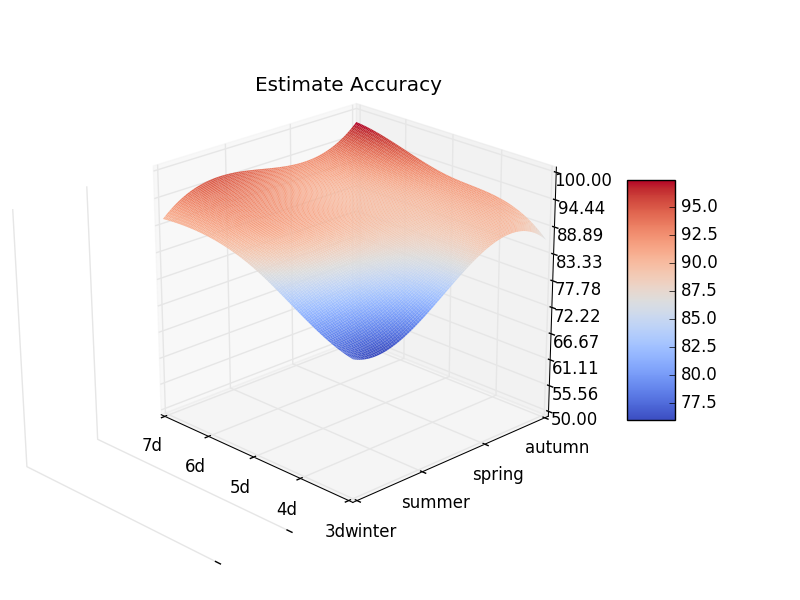
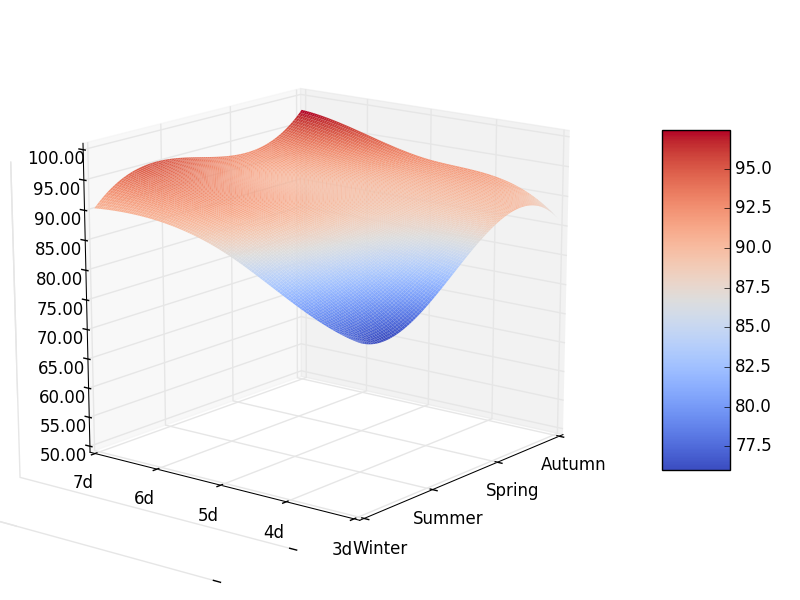
Alteracoes Glauci

diff --git a/graficos.py b/graficos.py
@@ -13,7 +13,7 @@ from scipy.interpolate import spline
 import matplotlib.pyplot as plt
 import numpy as np
 from coleta_dados_bdclima import campo_mourao, jaguaruana
-
+from change_z_position import MyAxes3D
 from time import sleep
 
 x_tk = ["3d", "4d", "5d", "6d", "7d"]
@@ -23,7 +23,7 @@ x_n, y_n = np.mgrid[1:5:125j, 1:4:100j]
 x_prev, y_prev = np.meshgrid(x, y)
 
 # -------------------------------- Estimativa ---------------------------------------------------#
-y_tk = ["autumn", "spring", "summer", "winter"]
+y_tk = ["Autumn", "Spring", "Summer", "Winter"]
 
 z = np.array([[86.2639777541, 91.7085907336, 92.6752320789,	95.3093500985, 97.608992404],
              [88.7806137049, 88.8802508711, 89.9631424714, 90.4234966701, 92.7750794607],
@@ -49,21 +49,22 @@ ax.zaxis.set_major_formatter(FormatStrFormatter('%.02f'))
 
 ax.set_xticks([i for i in range(1, 6)])
 ax.set_yticks([i for i in range(1, 7)])
+ax.set_zticks([i for i in range(50, 105, 5)])
 ax.set_xticklabels(x_tk)
 ax.set_yticklabels(y_tk)
 
+fig.colorbar(surf, shrink=0.6, aspect=5)
 
-fig.colorbar(surf, shrink=0.5, aspect=5)
+ax = fig.add_axes(MyAxes3D(ax, 'l'))
 
-ax.set_title("Estimate Accuracy")
-
+plt.tight_layout(pad=1.01)
 
 plt.show()
 
 # -------------------------------- Fim Estimativa ---------------------------------------------------#
 # -------------------------------- Previsao ---------------------------------------------------#
 
-y_tk = ["winter", "summer", "spring", "autumn"]
+y_tk = ["Winter", "Summer", "Spring", "Autumn"]
 
 
 z = np.array([[87.1393915552, 78.027100271, 77.3696257233, 76.6421890025, 73.6246612466],
@@ -72,7 +73,6 @@ z = np.array([[87.1393915552, 78.027100271, 77.3696257233, 76.6421890025, 73.624
               [63.7171081388, 56.3130518402, 53.193898068, 53.1401346271, 56.5023712737]])
 
 fig = plt.figure()
-plt.title("Forecasting")
 ax = fig.gca(projection='3d')
 
 tck = interpolate.bisplrep(x_prev, y_prev, z, s=0)
@@ -89,12 +89,15 @@ ax.zaxis.set_major_formatter(FormatStrFormatter('%.02f'))
 
 ax.set_xticks([i for i in range(1, 6)])
 ax.set_yticks([i for i in range(1, 7)])
+ax.set_zticks([i for i in range(50, 105, 5)])
 ax.set_xticklabels(x_tk)
 ax.set_yticklabels(y_tk)
 
-fig.colorbar(surf, shrink=0.5, aspect=5)
+fig.colorbar(surf, shrink=0.6, aspect=5)
 
-ax.set_title("Forecasting Accuracy")
+ax = fig.add_axes(MyAxes3D(ax, 'l'))
+
+plt.tight_layout(pad=1.01)
 
 plt.show()
 # -------------------------------- Fim Previsão ---------------------------------------------------#
@@ -155,15 +158,17 @@ dist_mar_smooth = np.linspace(distancia_mar.min(), distancia_mar.max(), 300)
 
 plt.subplot(221)
 
-plt.title("Continentality Effect")
-
 #suavisando no eixo y
 smooth_primavera = spline(distancia_mar, p_primavera(distancia_mar), dist_mar_smooth)
 # fim
 plt.plot(distancia_mar, media_primavera, 'ks', dist_mar_smooth, smooth_primavera, 'r-', lw=1)
 plt.axis([0, 1600, 45, 100])
-plt.setp(plt.gca(), yticks=(50, 75, 100), xticks=(0, 183, 363, 500, 670, 830, 1500))
-plt.text(50, 90, 'Spring', fontsize=15)
+plt.setp(plt.gca(), yticks=range(50, 105, 5), xticks=(0, 300, 600, 900, 1200, 1500))
+plt.text(50, 90, 'A - Spring', fontsize=15)
+plt.ylabel('%')
+plt.xlabel('km')
+plt.text(300, 80, r'$f(x) = 2.54e^{-5} x^2 - 0.0416x + 72.63$', fontsize=10)
+plt.text(300, 75, r'$R^2 = 0.24$', fontsize=10)
 
 plt.subplot(222)
 #suavisando no eixo y
@@ -171,8 +176,12 @@ smooth_verao = spline(distancia_mar, p_verao(distancia_mar), dist_mar_smooth)
 # fim
 plt.plot(distancia_mar, media_verao, 'ks', dist_mar_smooth, smooth_verao, 'r-', lw=1)
 plt.axis([0, 1600, 45, 100])
-plt.setp(plt.gca(), yticks=(50, 75, 100), xticks=(0, 183, 363, 500, 670, 830, 1500))
-plt.text(50, 90, 'Summer', fontsize=15)
+plt.setp(plt.gca(), yticks=range(50, 105, 5), xticks=(0, 300, 600, 900, 1200, 1500))
+plt.text(50, 90, 'B - Summer', fontsize=15)
+plt.ylabel('%')
+plt.xlabel('km')
+plt.text(300, 55, r'$f(x) = -1.40e^{-5} x^2 + 0.0386x + 58.46$', fontsize=10)
+plt.text(300, 50, r'$R^2 = 0.73$', fontsize=10)
 
 plt.subplot(223)
 #suavisando no eixo y
@@ -180,8 +189,12 @@ smooth_outono = spline(distancia_mar, p_outono(distancia_mar), dist_mar_smooth)
 # fim
 plt.plot(distancia_mar, media_outono, 'ks', dist_mar_smooth, smooth_outono, 'r-', lw=1)
 plt.axis([0, 1600, 45, 100])
-plt.setp(plt.gca(), yticks=(50, 75, 100), xticks=(0, 183, 363, 500, 670, 830, 1500))
-plt.text(50, 90, 'Autumn', fontsize=15)
+plt.setp(plt.gca(), yticks=range(50, 105, 5), xticks=(0, 300, 600, 900, 1200, 1500))
+plt.text(50, 90, 'C - Autumn', fontsize=15)
+plt.ylabel('%')
+plt.xlabel('km')
+plt.text(300, 80, r'$f(x) = 6.00e^{-6} x^2 - 0.0152x + 61.62$', fontsize=10)
+plt.text(300, 75, r'$R^2 = 0.30$', fontsize=10)
 
 plt.subplot(224)
 #suavisando no eixo y
@@ -189,11 +202,14 @@ smooth_inverno = spline(distancia_mar, p_inverno(distancia_mar), dist_mar_smooth
 # fim
 plt.plot(distancia_mar, media_inverno, 'ks', dist_mar_smooth, smooth_inverno, 'r-', lw=1)
 plt.axis([0, 1600, 45, 100])
-plt.setp(plt.gca(), yticks=(50, 75, 100), xticks=(0, 183, 363, 500, 670, 830, 1500))
-plt.text(50, 90, 'Winter', fontsize=15)
+plt.setp(plt.gca(), yticks=range(50, 105, 5), xticks=(0, 300, 600, 900, 1200, 1500))
+plt.text(50, 90, 'S - Winter', fontsize=15)
+plt.ylabel('%')
+plt.xlabel('km')
+plt.text(300, 55, r'$f(x) = -3.70e^{-6} x^2 - 0.0032x + 81.71$', fontsize=10)
+plt.text(300, 50, r'$R^2 = 0.16$', fontsize=10)
 
-
-
+plt.tight_layout()
 plt.show()
 # -------------------------------- Fim macroclimática ---------------------------------------------#
 
@@ -252,15 +268,17 @@ altitude_mar_smooth = np.linspace(altitude.min(), altitude.max(), 300)
 
 plt.subplot(221)
 
-plt.title("Topographic Effect")
-
 #suavisando no eixo y
 smooth_primavera = spline(altitude, p_primavera(altitude), altitude_mar_smooth)
 # fim
 plt.plot(altitude, media_primavera, 'ks', altitude_mar_smooth, smooth_primavera, 'r-', lw=1)
 plt.axis([0, 800, 45, 100])
-plt.setp(plt.gca(), yticks=(50, 75, 100), xticks=(0, 100, 200, 300, 400, 500, 600, 700, 800))
-plt.text(50, 90, 'Spring', fontsize=15)
+plt.setp(plt.gca(), yticks=range(50, 105, 5), xticks=(0, 200, 400, 600, 800))
+plt.text(50, 90, 'A - Spring', fontsize=15)
+plt.ylabel('%')
+plt.xlabel('m')
+plt.text(150, 80, r'$f(x) = 8.17e^{-5} x^2 - 0.0883x + 80.59$', fontsize=10)
+plt.text(150, 75, r'$R^2 = 0.40$', fontsize=10)
 
 plt.subplot(222)
 #suavisando no eixo y
@@ -268,8 +286,12 @@ smooth_verao = spline(altitude, p_verao(altitude), altitude_mar_smooth)
 # fim
 plt.plot(altitude, media_verao, 'ks', altitude_mar_smooth, smooth_verao, 'r-', lw=1)
 plt.axis([0, 800, 45, 100])
-plt.setp(plt.gca(), yticks=(50, 75, 100), xticks=(0, 100, 200, 300, 400, 500, 600, 700, 800))
-plt.text(50, 90, 'Summer', fontsize=15)
+plt.setp(plt.gca(), yticks=range(50, 105, 5), xticks=(0, 200, 400, 600, 800))
+plt.text(50, 90, 'B - Summer', fontsize=15)
+plt.ylabel('%')
+plt.xlabel('m')
+plt.text(150, 55, r'$f(x) = -3.37e^{-5} x^2 + 0.0528x + 57.09$', fontsize=10)
+plt.text(150, 50, r'$R^2 = 0.52$', fontsize=10)
 
 plt.subplot(223)
 #suavisando no eixo y
@@ -277,8 +299,12 @@ smooth_outono = spline(altitude, p_outono(altitude), altitude_mar_smooth)
 # fim
 plt.plot(altitude, media_outono, 'ks', altitude_mar_smooth, smooth_outono, 'r-', lw=1)
 plt.axis([0, 800, 45, 100])
-plt.setp(plt.gca(), yticks=(50, 75, 100), xticks=(0, 100, 200, 300, 400, 500, 600, 700, 800))
-plt.text(50, 90, 'Autumn', fontsize=15)
+plt.setp(plt.gca(), yticks=range(50, 105, 5), xticks=(0, 200, 400, 600, 800))
+plt.text(50, 90, 'C - Autumn', fontsize=15)
+plt.ylabel('%')
+plt.xlabel('m')
+plt.text(150, 80, r'$f(x) = 3.10e^{-5} x^2 - 0.0351x + 64.12$', fontsize=10)
+plt.text(150, 75, r'$R^2 = 0.34$', fontsize=10)
 
 plt.subplot(224)
 #suavisando no eixo y
@@ -286,8 +312,13 @@ smooth_inverno = spline(altitude, p_inverno(altitude), altitude_mar_smooth)
 # fim
 plt.plot(altitude, media_inverno, 'ks', altitude_mar_smooth, smooth_inverno, 'r-', lw=1)
 plt.axis([0, 800, 45, 100])
-plt.setp(plt.gca(), yticks=(50, 75, 100), xticks=(0, 100, 200, 300, 400, 500, 600, 700, 800))
-plt.text(50, 90, 'Winter', fontsize=15)
+plt.setp(plt.gca(), yticks=range(50, 105, 5), xticks=(0, 100, 200, 300, 400, 500, 600, 700, 800))
+plt.text(50, 90, 'D - Winter', fontsize=15)
+plt.ylabel('%')
+plt.xlabel('m')
+plt.tight_layout()
+plt.text(150, 55, r'$f(x) = 8.77e^{-5} x^2 - 0.0732x + 88.32$', fontsize=10)
+plt.text(150, 50, r'$R^2 = 0.30$', fontsize=10)
 
 plt.show()
 
@@ -296,9 +327,14 @@ plt.show()
 # Legends
 red_line = mlines.Line2D([], [], color='red', marker='o',
                          linewidth=2, label='Temperature')
-red_patch = mpatches.Patch(color='red', label='Deficit')
-blue_patch = mpatches.Patch(color='blue', label='Excess')
-green_patch = mpatches.Patch(color='green', label='Precipitation')
+red_patch = mpatches.Patch(facecolor='red', label='Deficit')
+blue_patch = mpatches.Patch(facecolor='blue', label='Excess')
+green_patch = mpatches.Patch(hatch='///', facecolor='green', label='Precipitation',)
+
+
+x_months = ['Jan', 'Feb', 'Mar', 'Apr',
+            'May', 'Jun', 'Jul', 'Aug',
+            'Sep', 'Oct', 'Nov', 'Dec']
 
 # Campo mourao
 campo_mourao['def'] = [-i if i != 0 else 0 for i in campo_mourao['def']]
@@ -307,7 +343,7 @@ fig = plt.figure()
 
 ax = fig.gca()
 
-ax.bar(range(1, 13), campo_mourao['precipitation'], align='center', color='green')
+ax.bar(range(1, 13), campo_mourao['precipitation'], align='center', color='green', hatch='///')
 
 ax.plot(range(1, 13), campo_mourao['exc'], range(1, 13), campo_mourao['def'], color='black', label='water balance')
 ax.fill_between(range(1, 13), 0, campo_mourao['exc'], facecolor='blue', zorder=5)
@@ -319,18 +355,15 @@ ax2.plot(range(1, 13), campo_mourao['temperature'],
          label="Temperature", color='red')
 ax2.set_ylim(0, 35)
 
-ax.set_xlabel('Month')
 ax.set_ylabel('mm')
 ax.set_xlim(1, 12)
 ax.set_ylim(0, 275)
 
 ax2.set_ylim(0, 40)
-ax2.set_ylabel(u'Celsius Degrees')
+ax2.set_ylabel(u'⁰C')
 
 plt.legend(handles=[red_patch, blue_patch, green_patch, red_line], loc='best')
-plt.xticks(range(1, 13), campo_mourao['month'])
-
-ax.set_title(u'Campo Mourão Climate Normal')
+plt.xticks(range(1, 13), x_months)
 
 plt.show()
 
@@ -338,12 +371,10 @@ plt.show()
 
 jaguaruana['def'] = [-i if i != 0 else 0 for i in jaguaruana['def']]
 
-print zip(jaguaruana['def'], jaguaruana['storage'])
-
 fig = plt.figure()
 
 ax = fig.gca()
-ax.bar(range(1, 13), jaguaruana['precipitation'], align='center', color='green')
+ax.bar(range(1, 13), jaguaruana['precipitation'], align='center', color='green', hatch='///')
 
 ax.plot(range(1, 13), jaguaruana['exc'], range(1, 13), jaguaruana['def'], color='black', label='water balance')
 ax.fill_between(range(1, 13), 0, jaguaruana['exc'], facecolor='blue', zorder=5)
@@ -355,18 +386,15 @@ ax2.plot(range(1, 13), jaguaruana['temperature'],
          linestyle='-', marker='o', linewidth=2,
          label="Temperature", color='red')
 
-ax.set_xlabel('Month')
 ax.set_ylabel('mm')
 ax.set_xlim(1, 12)
 ax.set_ylim(-175, 275)
 
 ax2.set_ylim(0, 40)
-ax2.set_ylabel(u'Celsius Degrees')
+ax2.set_ylabel(u'⁰C')
 
 
 plt.legend(handles=[red_patch, blue_patch, green_patch, red_line])
-plt.xticks(range(1, 13), jaguaruana['month'])
-
-ax.set_title(u'Jaguaruana Climate Normal')
+plt.xticks(range(1, 13), x_months)
 
 plt.show()

diff --git a/change_z_position.py b/change_z_position.py
@@ -1,0 +1,52 @@
+from mpl_toolkits.mplot3d import axes3d
+
+class MyAxes3D(axes3d.Axes3D):
+    def __init__(self, baseObject, sides_to_draw):
+        self.__class__ = type(baseObject.__class__.__name__,
+                              (self.__class__, baseObject.__class__),
+                              {})
+        self.__dict__ = baseObject.__dict__
+        self.sides_to_draw = list(sides_to_draw)
+        self.mouse_init()
+
+    def set_some_features_visibility(self, visible):
+        for t in self.w_zaxis.get_ticklines() + self.w_zaxis.get_ticklabels():
+            t.set_visible(visible)
+        self.w_zaxis.line.set_visible(visible)
+        self.w_zaxis.pane.set_visible(visible)
+        self.w_zaxis.label.set_visible(visible)
+
+    def draw(self, renderer):
+        # set visibility of some features False
+        self.set_some_features_visibility(False)
+        # draw the axes
+        super(MyAxes3D, self).draw(renderer)
+        # set visibility of some features True.
+        # This could be adapted to set your features to desired visibility,
+        # e.g. storing the previous values and restoring the values
+        self.set_some_features_visibility(True)
+
+        zaxis = self.zaxis
+        draw_grid_old = zaxis.axes._draw_grid
+        # disable draw grid
+        zaxis.axes._draw_grid = False
+
+        tmp_planes = zaxis._PLANES
+
+        if 'l' in self.sides_to_draw :
+            # draw zaxis on the left side
+            zaxis._PLANES = (tmp_planes[2], tmp_planes[3],
+                             tmp_planes[0], tmp_planes[1],
+                             tmp_planes[4], tmp_planes[5])
+            zaxis.draw(renderer)
+        if 'r' in self.sides_to_draw :
+            # draw zaxis on the right side
+            zaxis._PLANES = (tmp_planes[3], tmp_planes[2],
+                             tmp_planes[1], tmp_planes[0],
+                             tmp_planes[4], tmp_planes[5])
+            zaxis.draw(renderer)
+
+        zaxis._PLANES = tmp_planes
+
+        # disable draw grid
+        zaxis.axes._draw_grid = draw_grid_old

diff --git a/mapas.py b/mapas.py
@@ -37,8 +37,19 @@ lons = np.array([-48.3257, -37.7815, -47.6476,
 
 x, y = m(lons, lats)
 
-m.scatter(x, y, s=50, marker='o', c='red', cmap=cm.cool, alpha=0.7, zorder=100)
+m.scatter(x, y, s=50, marker='o', c='red', cmap=cm.cool, alpha=0.7, zorder=100.)
 
-m.ax.set_title('Weather Station Locations')
+m.drawmapscale(-43., -32., -47.1, -28.1,  1000, fontsize=10, zorder=5, barstyle='fancy')
+
+
+parallels = np.arange(-50.,10,5.)
+
+print parallels
+
+m.drawparallels(parallels, labels=[1, 0, 0, 1])
+
+meridians = np.arange(70., 360., 5.)
+print meridians
+m.drawmeridians(meridians,labels=[1, 0, 0,1])
 
 plt.show()
